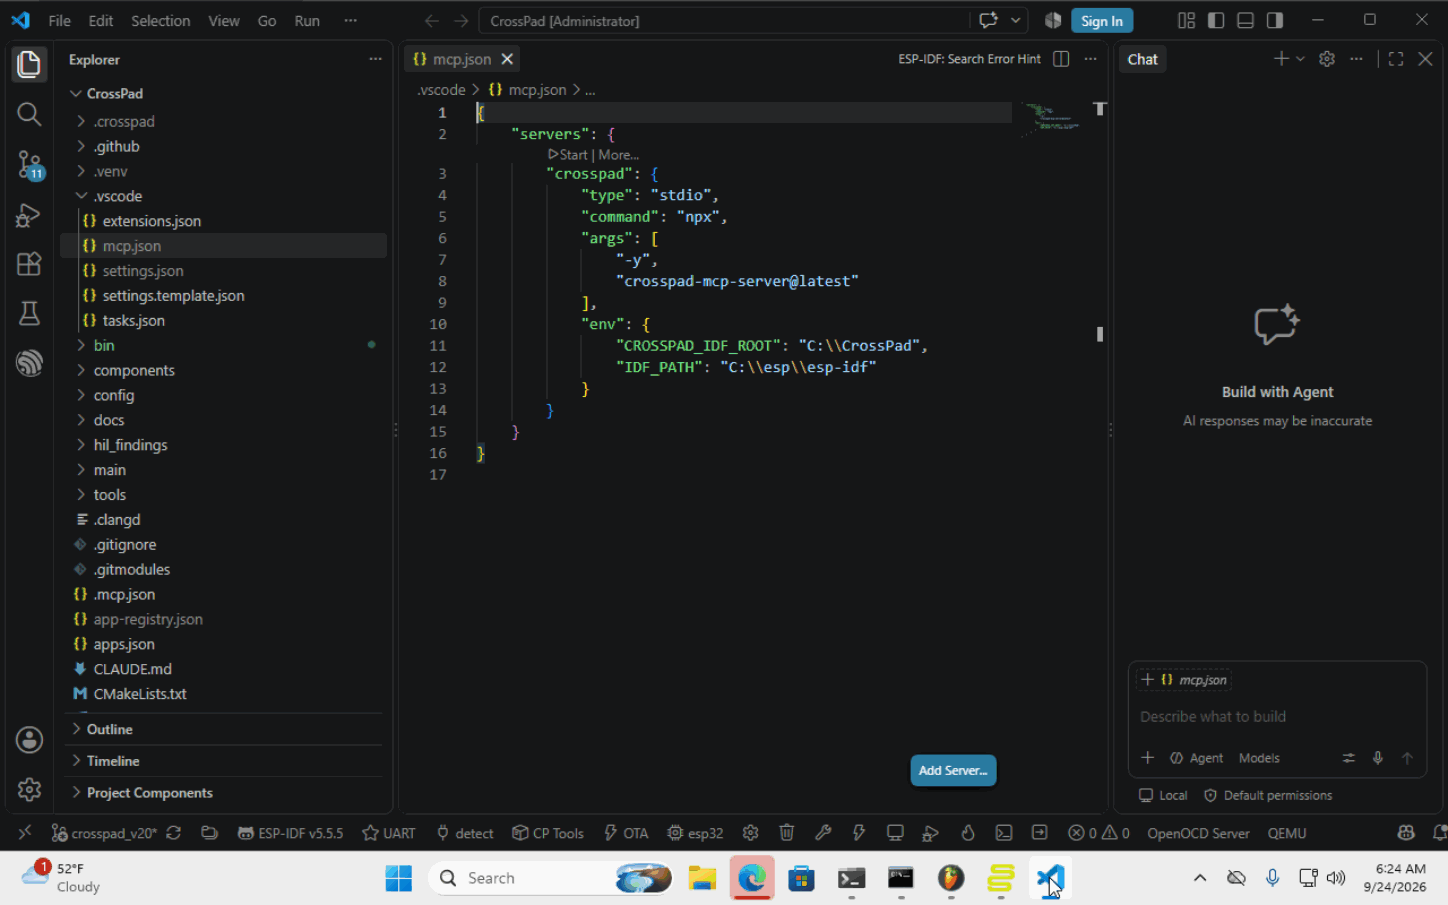
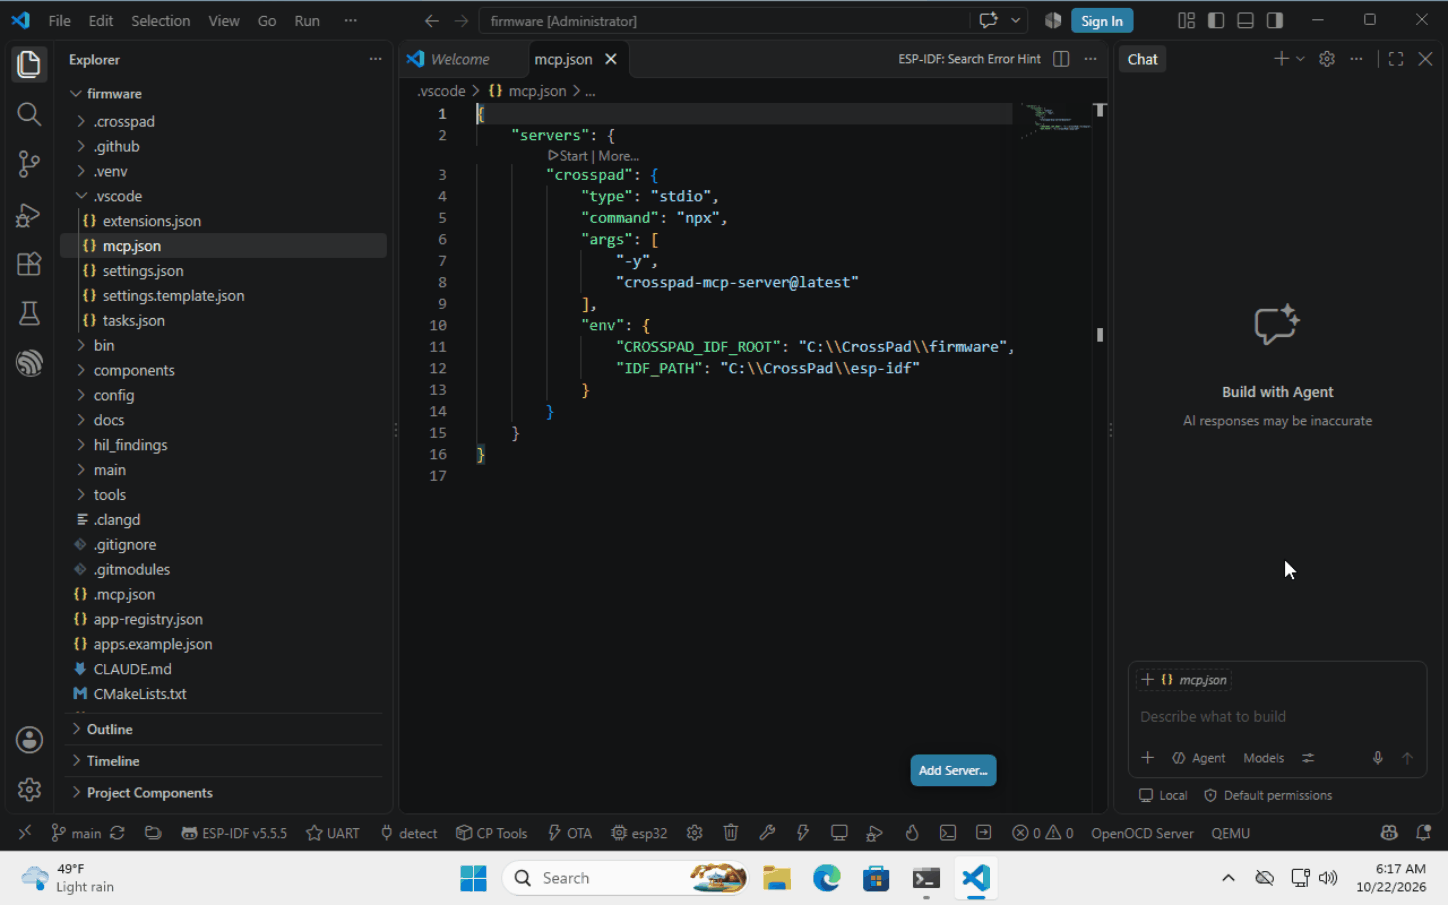
docs(install): new Windows screenshots for the one-folder layout
Retaken on a fresh golden Windows 11 with the installer from main:
C:\CrossPad\firmware, esp-idf, pc, arduino; 12 steps with both extras.
The README now names what Windows shows today: gh asks whether to
authenticate Git before the one-time code, and VS Code first offers a
Copilot sign-in and opens the folder in Restricted Mode (Manage, then
Trust). win-3-steps was the same frame as win-7-extras and is gone.
cp-4-board, fl-* and pc-1 stay: they need a board in the VM.

diff --git a/install/README.md b/install/README.md
@@ -51,12 +51,13 @@ version of the firmware. Press **Enter** for *no* if you only want to update
 your CrossPad — you can run the install line again later and answer *y*.
 Answer them and the rest runs without you.
 
-![Both questions answered with y, steps 1 and 2 already done](img/win-7-extras.png)
+![Both questions answered with y, steps 1 and 2 done, step 3 downloading the project into C:\CrossPad\firmware](img/win-7-extras.png)
 
 ### 3. Sign in to GitHub (once)
 
-Early on (step 2) the installer shows a **one-time code** — it is already
-copied for you. Press **Enter**: your browser opens GitHub. Sign in if it asks,
+Early on (step 2) GitHub asks *Authenticate Git with your GitHub
+credentials?* — press **Enter** for yes. Then the installer shows a **one-time
+code** — it is already copied for you. Press **Enter**: your browser opens GitHub. Sign in if it asks,
 press **Ctrl+V** to paste the code, and click **Continue**, then
 **Authorize**. Come back to the PowerShell window — it carries on by itself.
 Next time it remembers you.
@@ -75,13 +76,11 @@ extension and the CP Tools buttons, pointed at the right ESP-IDF) and
 Code), and checks at the end that every command below works in a new
 terminal. You can leave the window alone.
 
-![Steps 1 and 2 finished with [OK], step 3 working](img/win-3-steps.png)
-
 With both extras the list is longer — the PC simulator needs Visual Studio's
 C++ build tools (about 20 minutes the first time, Windows asks once for
 permission) and the Arduino version brings PlatformIO:
 
-![Steps 4 to 10 with [OK]: ESP-IDF, USB, test tools, VS Code, AI tools, PC simulator, Arduino](img/win-8-extras-steps.png)
+![Steps 4 to 10 with [OK]: ESP-IDF, USB, test tools, VS Code, AI tools, PC simulator in C:\CrossPad\pc, Arduino in C:\CrossPad\arduino](img/win-8-extras-steps.png)
 
 ### 5. "All set"
 
@@ -182,14 +181,16 @@ its firmware fits, and the list shows every app on it:
 The installer puts VS Code on the computer with the ESP-IDF, C/C++ and
 task-button extensions, and points it at the ESP-IDF it set up.
 
-1. Open VS Code, **File → Open Folder…**, pick `C:\CrossPad\firmware` (Mac/Linux:
+1. Open VS Code. The first time it offers to sign in to GitHub Copilot: click
+   **Continue without Signing In**, then **Get Started** (you can sign in later).
+2. **File → Open Folder…**, pick `C:\CrossPad\firmware` (Mac/Linux:
    `~/CrossPad`).
-2. VS Code asks whether you trust the folder. Click **Trust** — without it the
-   extensions stay off.
+3. VS Code opens the folder in *Restricted Mode*. Click **Manage** in the bar
+   at the top, then **Trust** — without it the extensions stay off.
 
-   ![Workspace Trust: click Trust](img/vscode-1-trust.png)
+   ![Restricted Mode: Manage in the top bar, then Trust](img/vscode-1-trust.png)
 
-3. The bottom bar now shows **ESP-IDF v5.5** (v5.5.5 when the installer set it up) and the **CP Tools** button
+4. The bottom bar now shows **ESP-IDF v5.5** (v5.5.5 when the installer set it up) and the **CP Tools** button
    (plus **UART** and **OTA** to put a build on the board). The **CP Tools**
    button opens the same CP Tools as the desktop shortcut.
 
